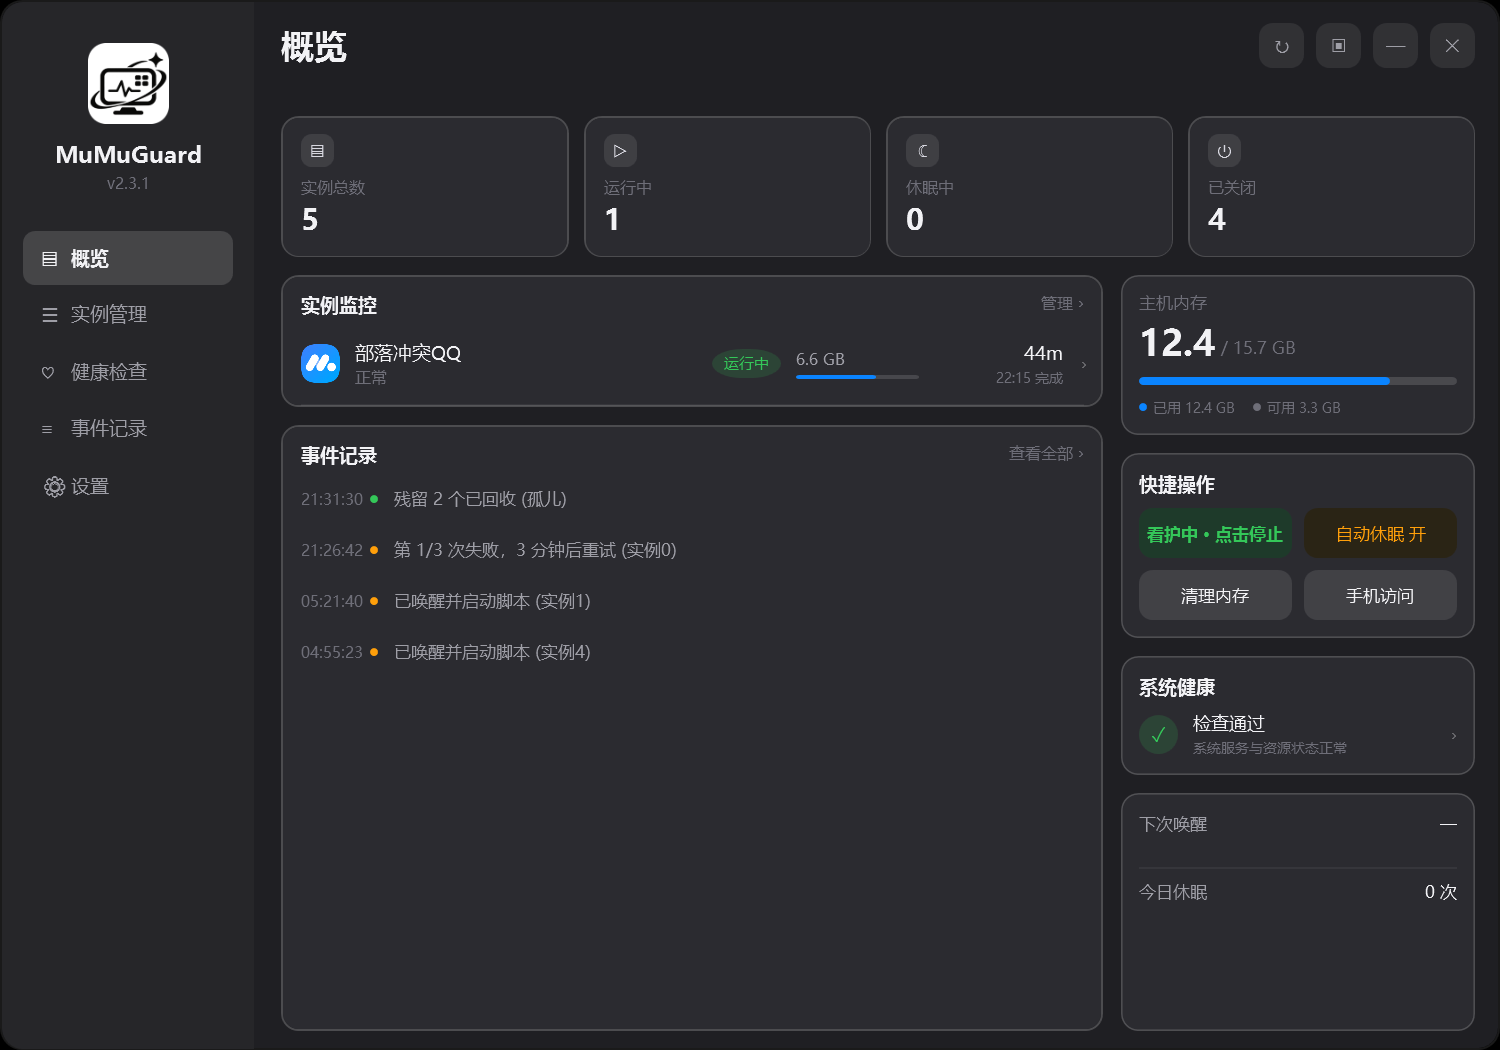
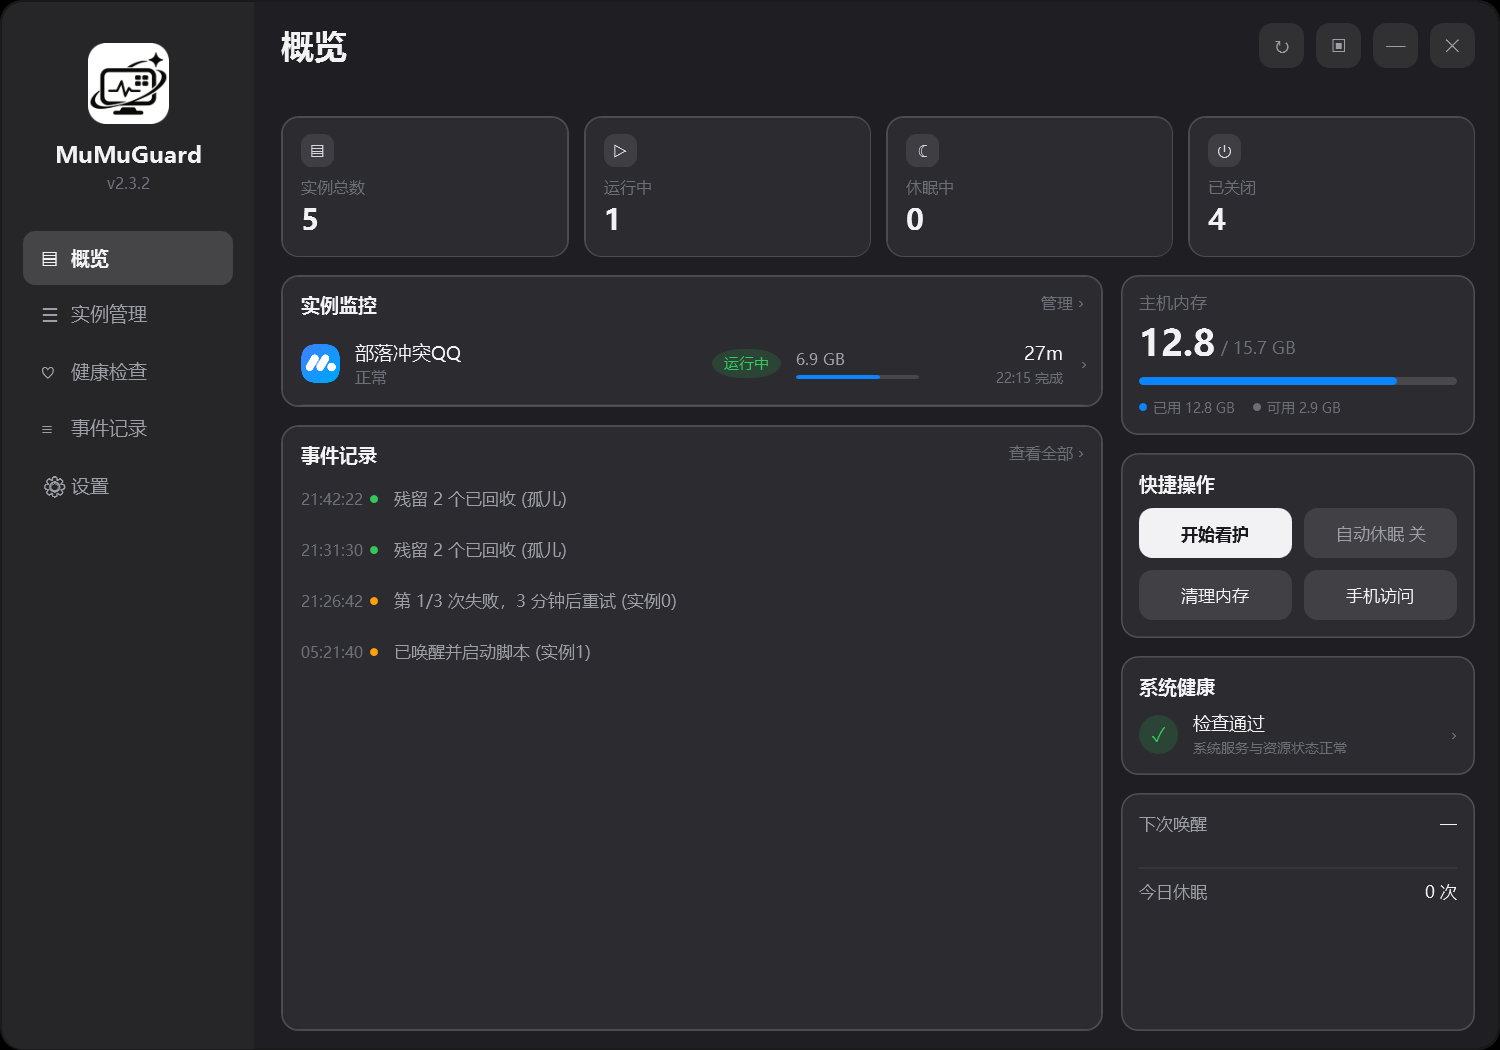
修复采集线程被 MuMuManager 卡死（超时 + 心跳看门狗，2.3.2）
根因：
1) 采集 runspace 里所有 MuMuManager adb/sh 和直连 adb 调用都是同步执行，没有超时；MuMuManager 在实例关机/切换阶段会无限挂住（实测 pid 54316 从 12:13 挂到 12:36），整个采集线程停摆；
2) 没有采集心跳看门狗，卡死后只能重启面板；
3) 面板最小化/公告打开时实例清单/采集数据进一步变旧，表现为「检测不到 ADB」、紫孔雀掉线不恢复。

改动：
- worker 内新增 Invoke-ExeTimeout：进程级超时、异步读 stdout/stderr、超时杀进程树；三个 adb 通道全部改走它（MuMuManager 8s、adb connect 5s）；
- worker 每轮开头/每实例结束后刷新 $sync.Heartbeat；
- 新增 Start-AdbSyncWorker / Restart-AdbSyncWorker / Test-AdbSyncWatchdog，主计时器 + 重扫定时器都检查心跳，超过 120 秒自动重启采集线程（40 秒节流、写 diag + SYNC_RESTART 事件）；
- 启动时立即初始化 adbSync.Devices（保持原行为，不等 30 秒重扫）；关闭时释放 runspace；
- 90-pure 新增 Test-SyncHeartbeatStale 并补单测；
- 版本/README/公告/事故档案（#11）同步到 2.3.2。

验证：
- tests\Run-Tests.ps1：93 条全过；
- build\release.ps1：exe 自检 35 项全过；
- exe 2.3.2 实机：采集线程「设备 1 个，batch=1」，实例4 adb 通道 mumu，75 秒持续采集、看门狗无误触发；实例0+4 双开时采集清单 0,4、数据 6.6/6.9GB 不串台；
- 超时执行函数用真实源码做挂起测试：cmd /c ping 30 次、超时 1500ms → TimedOut=True、2.4 秒返回、无残留进程；正常命令输出正确。

未覆盖：未在 exe 里人工注入 MuMuManager 卡死来触发看门狗重启（避免替换 MuMu 文件）；看门狗决策/重启函数由单测、静态检查和超时函数实测覆盖。

diff --git a/docs/BUGFIX-RULES.md b/docs/BUGFIX-RULES.md
@@ -86,6 +86,7 @@
 7. **第三方配置直接改**：直接改 xxYun 数据库造成孤儿映射，页面一直读取/卡死；恢复备份才修好。第三方只读为主，先备份、先征得同意。
 8. **合成输入不可用**：本机环境鼠标/键盘模拟输入被限制（连自建 WinForms 按钮都点不动）→ 不要承诺替用户点 UI；让用户操作，我们截图/日志指导。
 9. **验证不充分**：只跑脚本版就宣布完成 → 用户要求以后一律用 exe 发布版在真实环境验证。
-10. **自动唤醒后实例长时间不出现**：实例重扫被 `WindowState -ne 'Minimized'` 挡住，面板最小化后新唤醒的实例永远进不了采集清单；唤醒器也没有通知面板。修复：后台 30 秒重扫（不看窗口）、唤醒器写 `wake-notify.json` 通知面板立即刷新并强制采集、窗口恢复立即刷新、idle 采集间隔从 120 秒降到 30 秒。
+10. **自动唤醒后实例长时间不出现**：实例重扫被 `WindowState -ne 'Minimized'` 挡住，面板最小化后新唤醒的实例永远进不了采集清单；唤醒器也没有通知面板。修复：后台 30 秒重扫（不看窗口）、唤醒器写 `wake-notify.json` 通知面板立即刷新并强制采集、窗口恢复立即刷新、idle 采集间隔从 120 秒降到 30 秒。10. **自动唤醒后实例长时间不出现**：实例重扫被 `WindowState -ne 'Minimized'` 挡住，面板最小化后新唤醒的实例永远进不了采集清单；唤醒器也没有通知面板。修复：后台 30 秒重扫（不看窗口）、唤醒器写 `wake-notify.json` 通知面板立即刷新并强制采集、窗口恢复立即刷新、idle 采集间隔从 120 秒降到 30 秒。
+11. **采集线程被 MuMuManager 卡死**：MuMuManager adb/sh 在实例关机/切换阶段会无限挂住，旧代码直接同步调用、没有超时也没有心跳看门狗，导致整个采集线程停摆数小时（表现为「检测不到 ADB」、紫孔雀掉线不恢复）。修复：worker 内所有 MuMuManager/adb 调用走带超时的 `Invoke-ExeTimeout`（超时杀进程树）；主计时器用 `Test-SyncHeartbeatStale` 检查心跳，超过 120 秒自动重启采集线程。
 
 > 每次遇到新的翻车方式，把教训补进第 6 节，规则才会越来越值钱。

diff --git a/README.md b/README.md
@@ -4,7 +4,7 @@
 
 盯着每个实例，掉线自动拉起，等升级时休眠省内存，醒来自动接着跑。
 
-![版本](https://img.shields.io/badge/version-2.3.1-3DDC84)
+![版本](https://img.shields.io/badge/version-2.3.2-3DDC84)
 ![平台](https://img.shields.io/badge/platform-Windows%2010%20%7C%2011-0A0D14)
 ![许可](https://img.shields.io/badge/license-MIT-blue)
 ![QQ 群](https://img.shields.io/badge/QQ%E7%BE%A4-1128379535-12B7F5)
@@ -22,6 +22,13 @@ MuMuGuard 是给 MuMu 模拟器多开用的看护面板，运行在 Windows 10 /
 项目地址：[github.com/suuk324/MuMuGuard](https://github.com/suuk324/MuMuGuard)
 
 ---
+
+## 2.3.2 更新了什么
+
+- **修复了一些问题**。
+- 给采集线程的所有 MuMuManager / adb 调用加了超时：命令卡住会被杀掉，不再拖死整个采集线程；单个实例超时不影响其他实例。
+- 增加采集线程心跳看门狗：心跳超过 120 秒没更新会自动重启采集线程，并写诊断日志。
+- 其他功能未改动。
 
 ## 2.3.1 更新了什么
 
